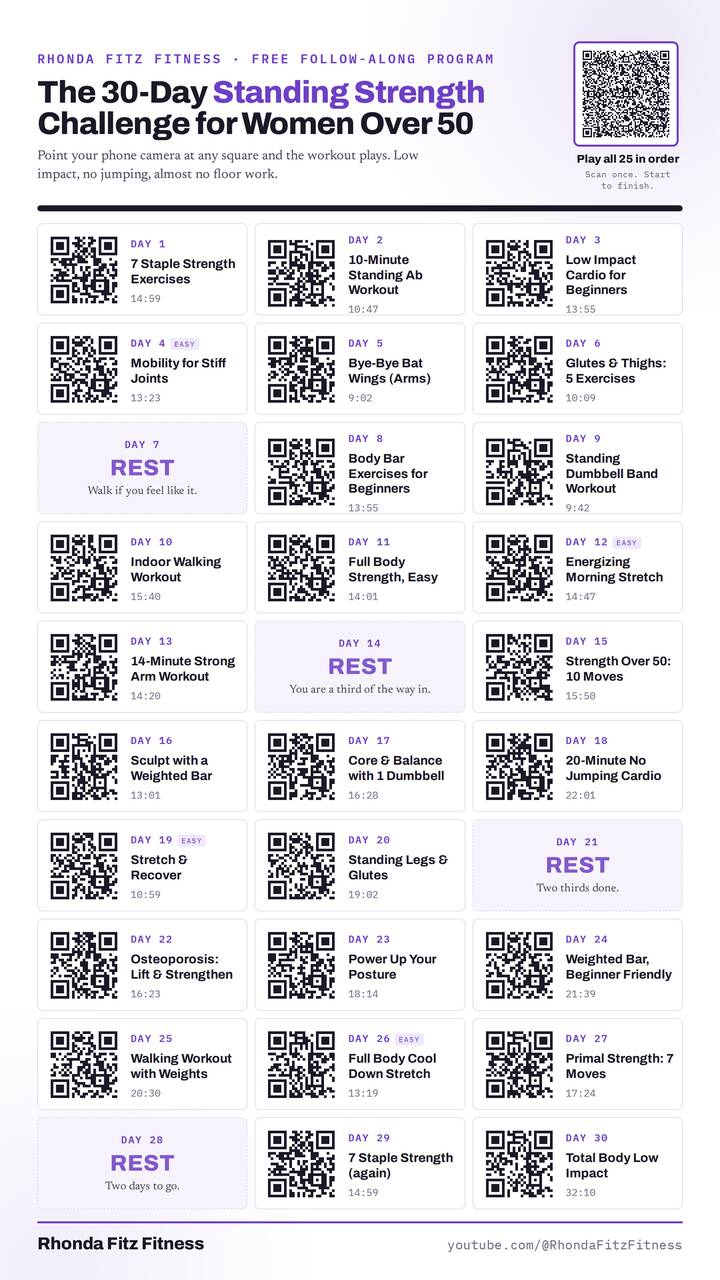
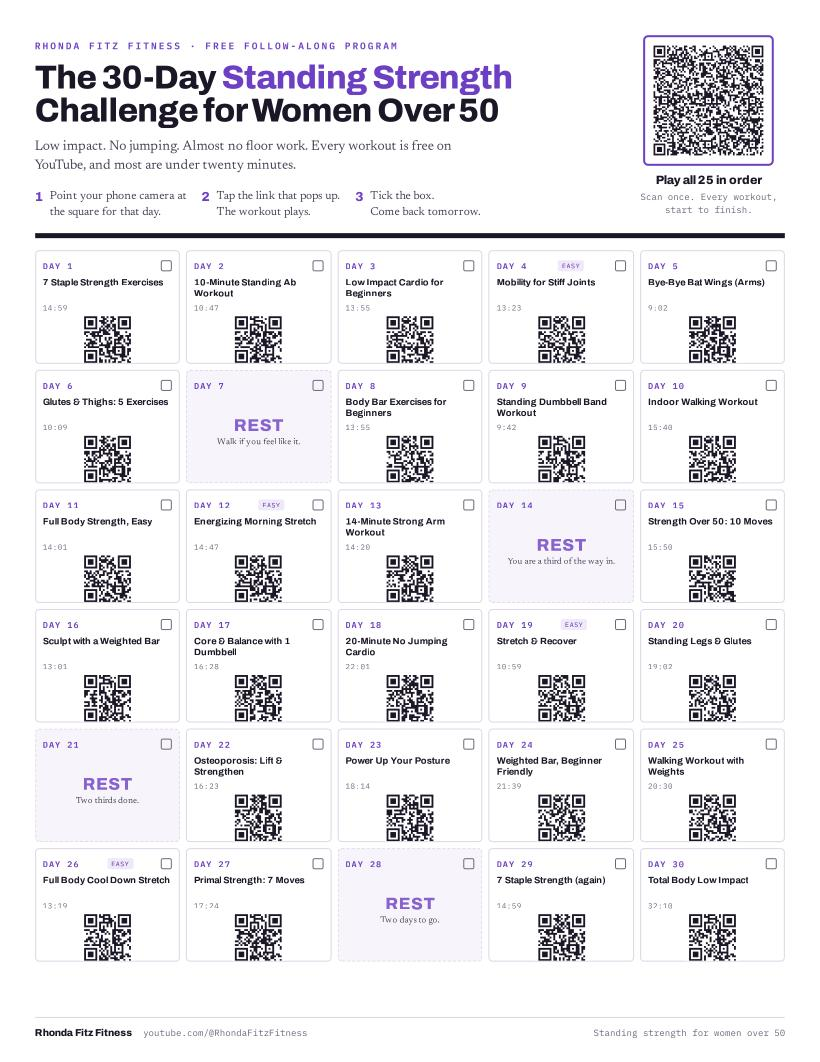
fix(spirit-of-fitness sample): calendar preview is the real 8.5x11 page, not the 9:16 TV image
The preview was rendered from the TV/screen version (9:16, looked Legal-size).
Re-rendered from page 1 of the actual letter PDF so the picture matches the
download. width/height corrected to 820x1062.

Changed region(s): [[0.0306, 0.0311, 0.9472, 0.9944], [0.6111, 0.4661, 0.6417, 0.4972]]

diff --git a/spirit-of-fitness/challenge.html b/spirit-of-fitness/challenge.html
@@ -78,7 +78,7 @@
   <section>
     <div class="wrap calshow">
       <a class="calimg" href="assets/30-day-standing-strength-challenge.pdf">
-        <img src="assets/challenge-calendar-web.jpg" alt="The 30-Day Standing Strength Challenge calendar: a grid of thirty numbered days, each with its own QR code and workout name." width="720" height="1280" loading="lazy">
+        <img src="assets/challenge-calendar-web.jpg" alt="The 30-Day Standing Strength Challenge calendar: an 8.5 by 11 page with a grid of thirty numbered days, each with its own QR code and workout name." width="820" height="1062" loading="lazy">
       </a>
       <div>
         <div class="eyebrow">The calendar</div>
